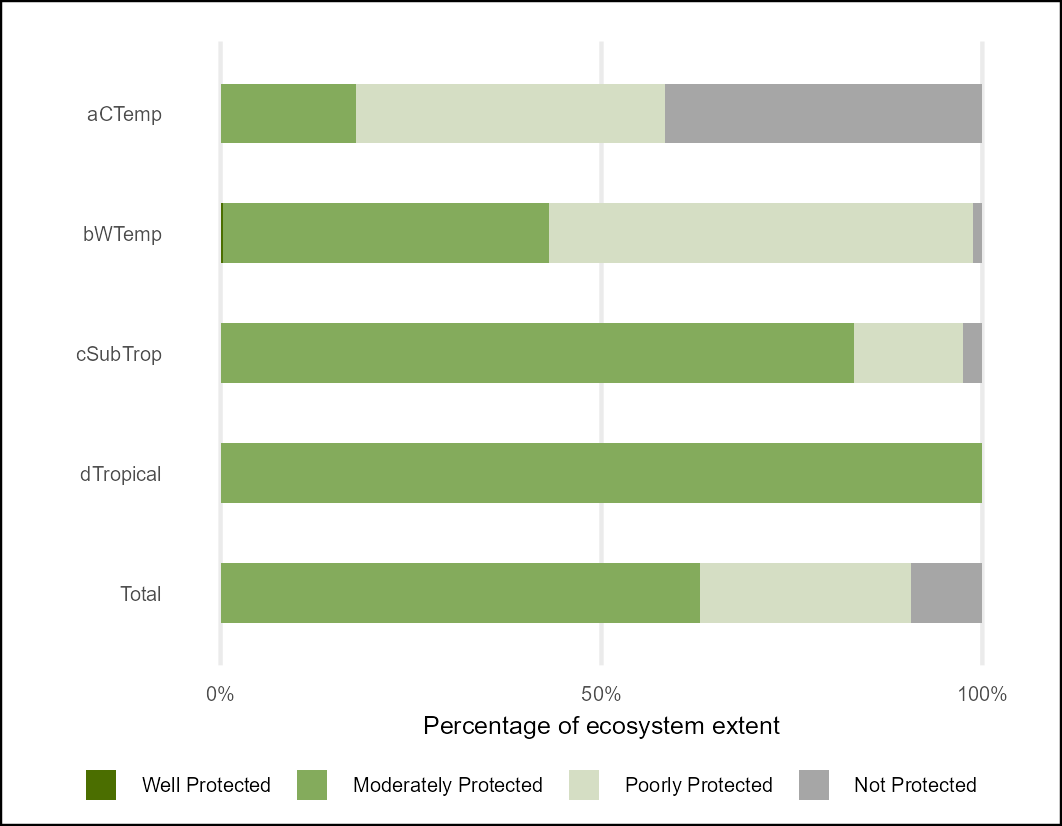
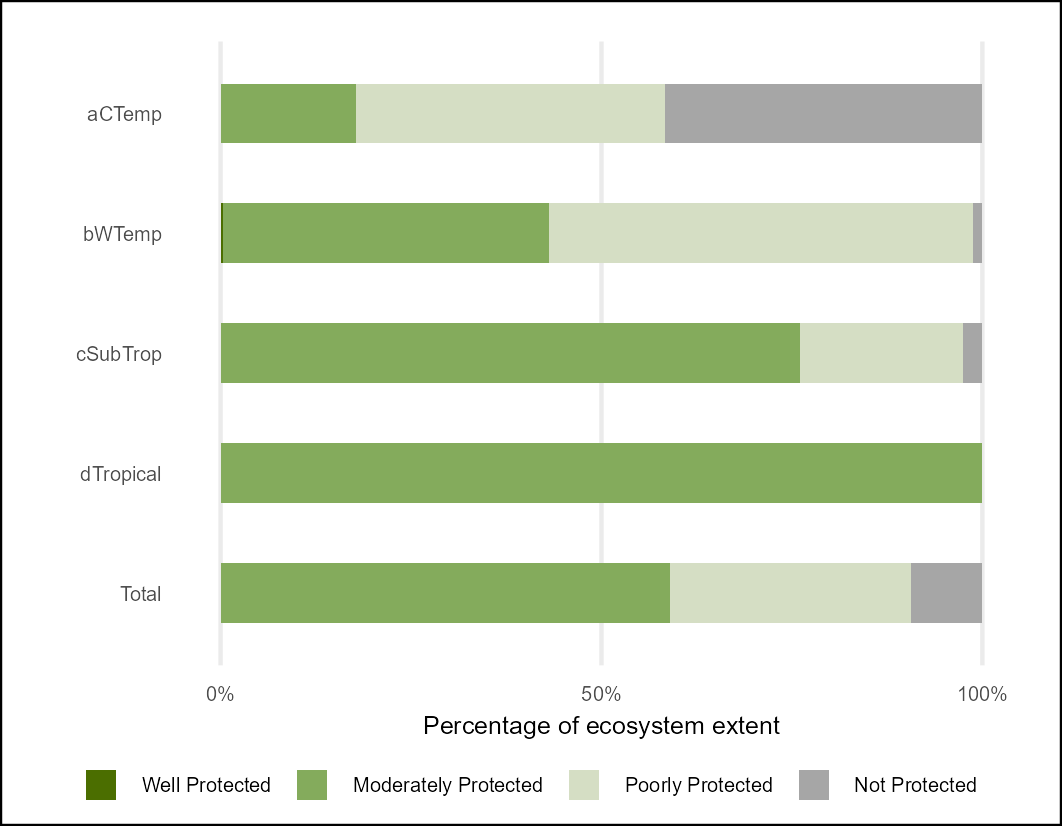
update with revised PES scores

Changed region(s): [[0.7458, 0.3935, 0.8079, 0.4843], [0.6215, 0.6659, 0.6836, 0.7567]]

diff --git a/README.md b/README.md
@@ -45,9 +45,9 @@ Summary table - extent of estuarine per biogeographic zone per EPL category [epl
 Estuarine Ecosystem Protection Level 2025 - plots
 
 | Count of Ecosystem Types per EPL category | Extent of Ecosystem Types per EPL category |
-|----|----|
+|------------------------------------|------------------------------------|
 | ![](outputs/epl24_est_bar_plot_count.png) | ![](outputs/epl24_est_bar_plot_ext.png) |
 
-EPL Index - is not showing much change due lack of PA expansion in EFZ
+EPL Index - showing decline in protection level for Subtropical Estuaries in particular - due to fishing pressures
 
 ![](outputs/epli_est_line_plot.png)
